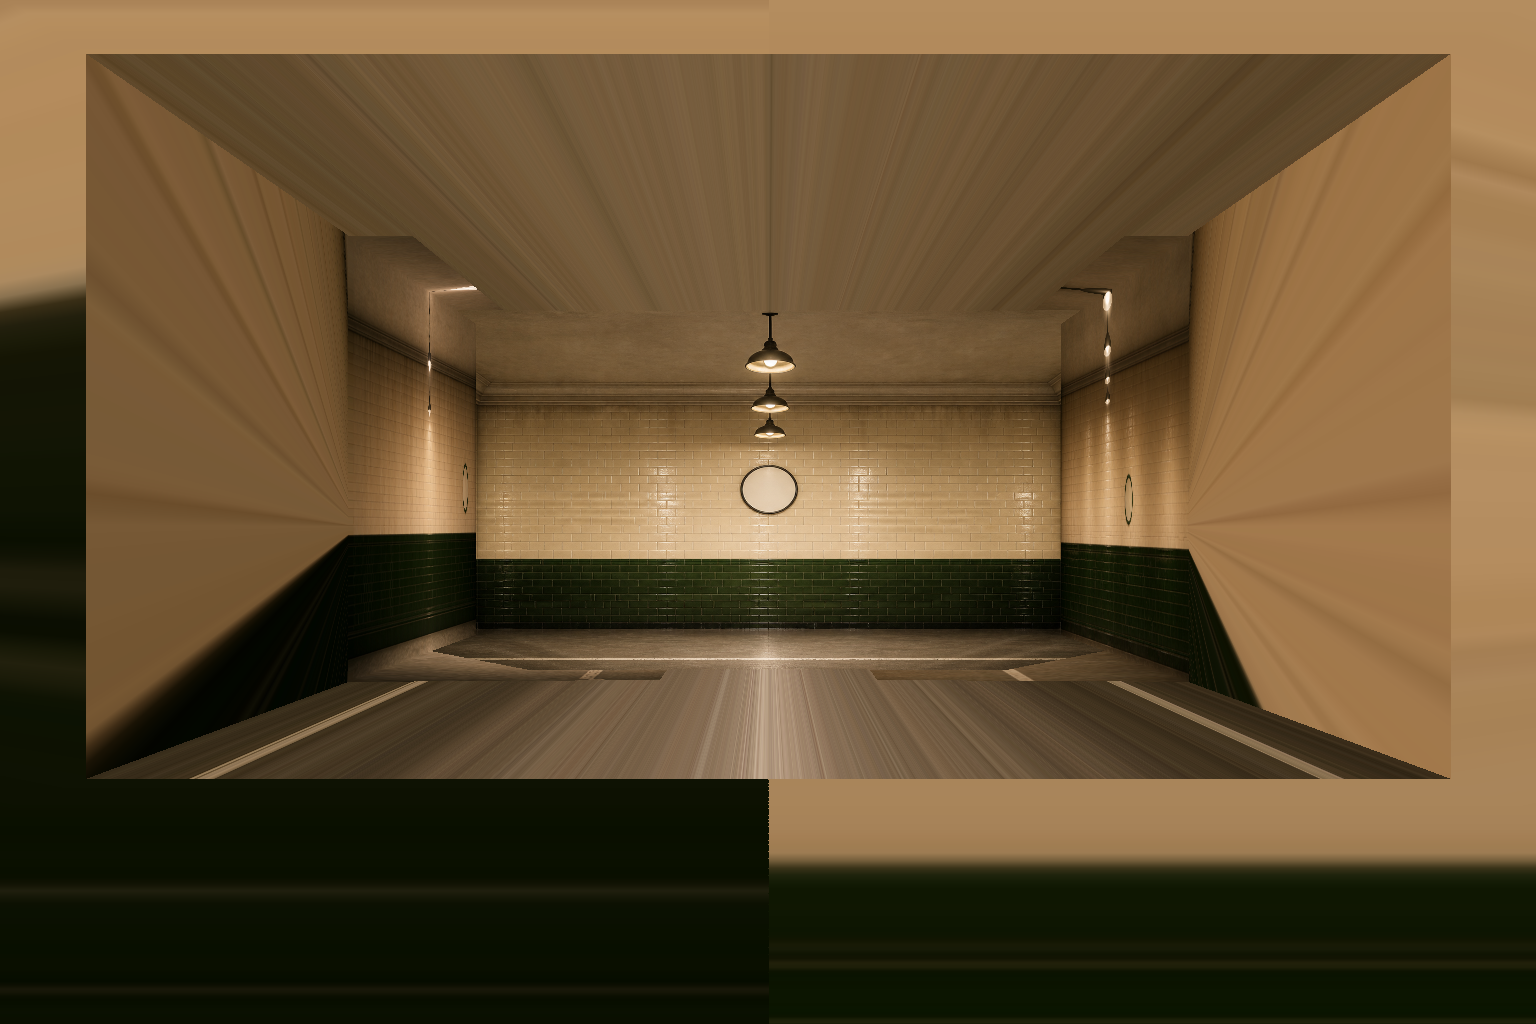
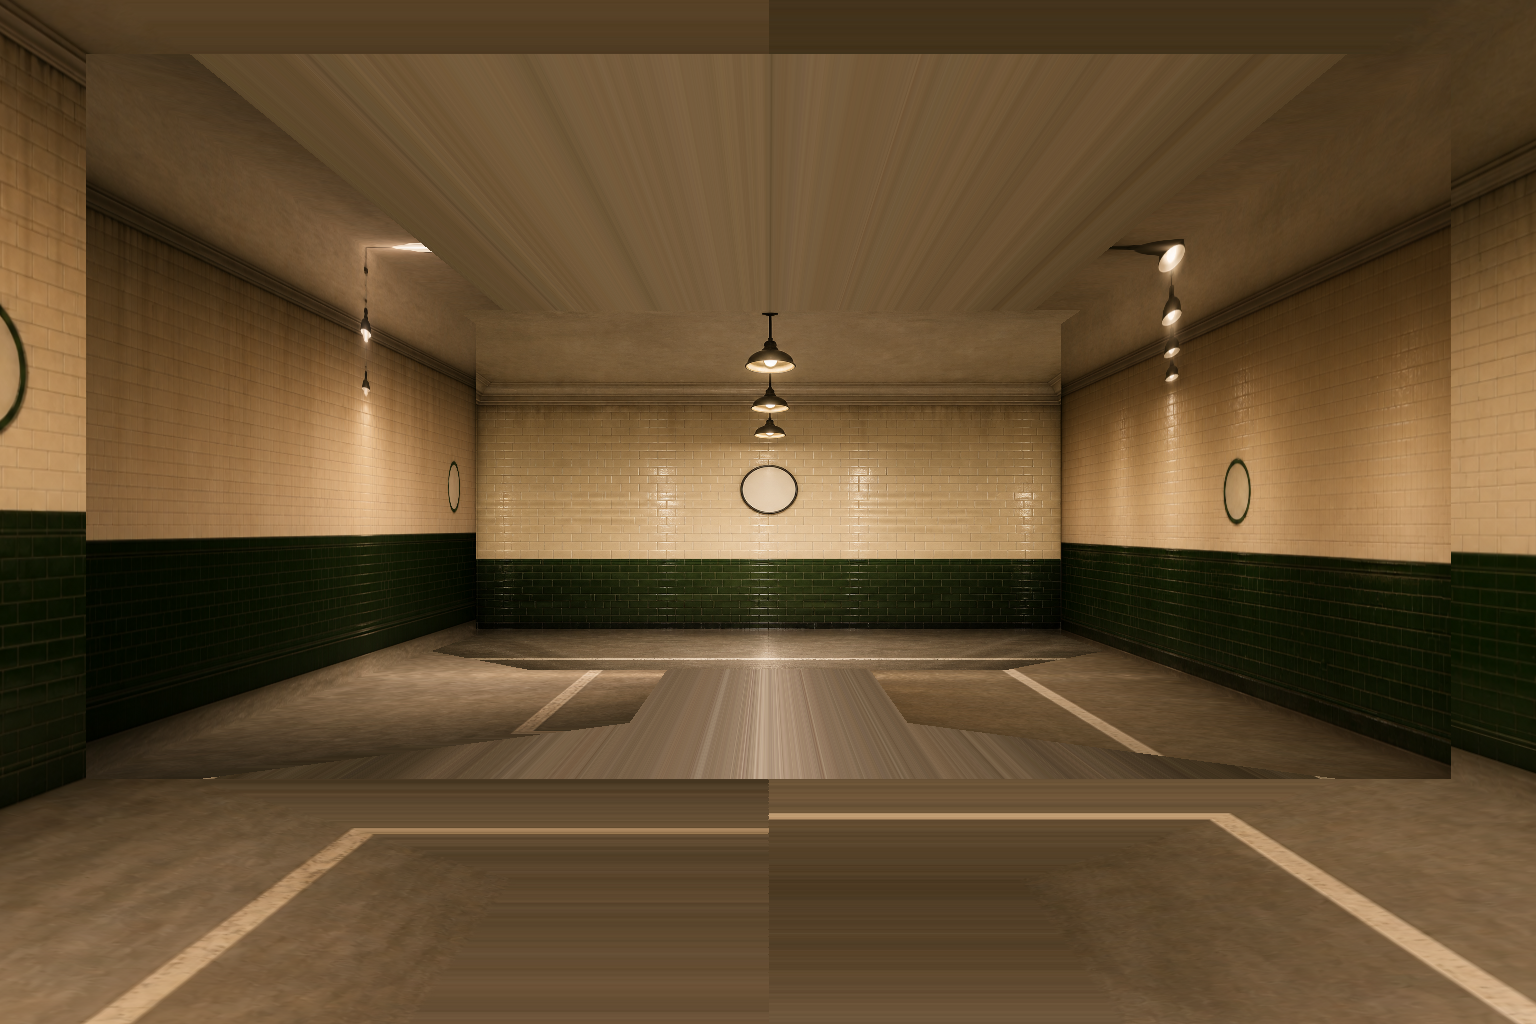
deep_view: source cameras read the RUN a side wall belongs to (run_span_of) — run-cornered sources had doubled the horizontal scale and filled 79%; back to 32% fill; the deep walls re-decided

diff --git a/design/plan-draft/measured/deep_view.py b/design/plan-draft/measured/deep_view.py
@@ -136,6 +136,49 @@ def room_of(plan, rid):
     return None
 
 
+
+def run_span_of(plan, room, f):
+    """The RUN a side wall belongs to, in world coordinates along the span axis.
+
+    Mirrors `tools/plan-projection.mjs` `runSpanOf`: extend across full-width
+    `open_edge`s on the cell's side edges while the neighbour continues the
+    same wall line. Returns (lo, hi); equals the cell's own span when the wall
+    is no run — which is what keeps every non-run source byte-identical.
+    """
+    ax = "x" if f in ("N", "S") else "y"
+    nx = "y" if ax == "x" else "x"
+    wall_line = facing_edge(room["rect"], f)
+    lo, hi = across_span(room["rect"], f)
+    d0, d1 = (room["rect"][nx + "0"], room["rect"][nx + "1"])
+    for direction in (-1, 1):
+        cell = room
+        for _ in range(8):
+            edge = cell["rect"][ax + ("0" if direction < 0 else "1")]
+            found = None
+            for o in plan.get("openings", []):
+                r = o.get("rect")
+                if (o.get("kind") != "open_edge" or o.get("floor") != cell.get("floor")
+                        or not r or cell["id"] not in (o.get("joins") or [])):
+                    continue
+                if abs(r[ax + "0"] - edge) > 1e-6 or abs(r[ax + "1"] - edge) > 1e-6:
+                    continue
+                if r[nx + "0"] > d0 + 1e-6 or r[nx + "1"] < d1 - 1e-6:
+                    continue
+                found = o
+                break
+            if not found:
+                break
+            nid = next((j for j in found.get("joins", []) if j != cell["id"]), None)
+            nxt = next((r2 for r2 in plan.get("rooms", []) if r2["id"] == nid), None)
+            if not nxt or abs(facing_edge(nxt["rect"], f) - wall_line) > 1e-6:
+                break
+            cell = nxt
+            if direction < 0:
+                lo = cell["rect"][ax + "0"]
+            else:
+                hi = cell["rect"][ax + "1"]
+    return lo, hi
+
 def walk_open_edges(plan, room, f, max_hops=8):
     """The `throughLine` walk, returning the cells crossed and the lines.
 
@@ -289,7 +332,13 @@ def source_camera(plan, room, f, meta):
     width_m = float(fc.get("wall_width_m") or abs(
         across_span(room["rect"], f)[1] - across_span(room["rect"], f)[0]))
     x0, x1 = float(meta["corner_x0_px"]), float(meta["corner_x1_px"])
-    ppm_h = (x1 - x0) / width_m
+    # [2026-08-30] A RUN WALL'S CORNERS SPAN THE RUN, not the cell: divide by
+    # the run's metres or the horizontal scale doubles and every band misses
+    # (the regenerated deep frames came back 79 % fill on run-cornered
+    # sources). Equal spans reproduce the old arithmetic exactly.
+    run_lo, run_hi = run_span_of(plan, room, f)
+    span_m = (run_hi - run_lo) if (run_hi - run_lo) > width_m + 1e-6 else width_m
+    ppm_h = (x1 - x0) / span_m
     ppm_v = float(meta["px_per_m_at_wall"])
     wall_m = float(fc["camera_wall_m"])
     vy = float(meta["horizon_y"]) * ih
@@ -299,8 +348,7 @@ def source_camera(plan, room, f, meta):
     # `x0` is the LEFT column, so it belongs to whichever end of the wall has
     # the smaller lateral offset. Nothing here assumes the camera stands on
     # the room's axis; `vx` is solved for, not assumed to be the frame centre.
-    lo, hi = across_span(room["rect"], f)
-    cam.vx = x0 - ppm_h * min(cam.wall_lateral(lo), cam.wall_lateral(hi))
+    cam.vx = x0 - ppm_h * min(cam.wall_lateral(run_lo), cam.wall_lateral(run_hi))
     return cam
 
 
